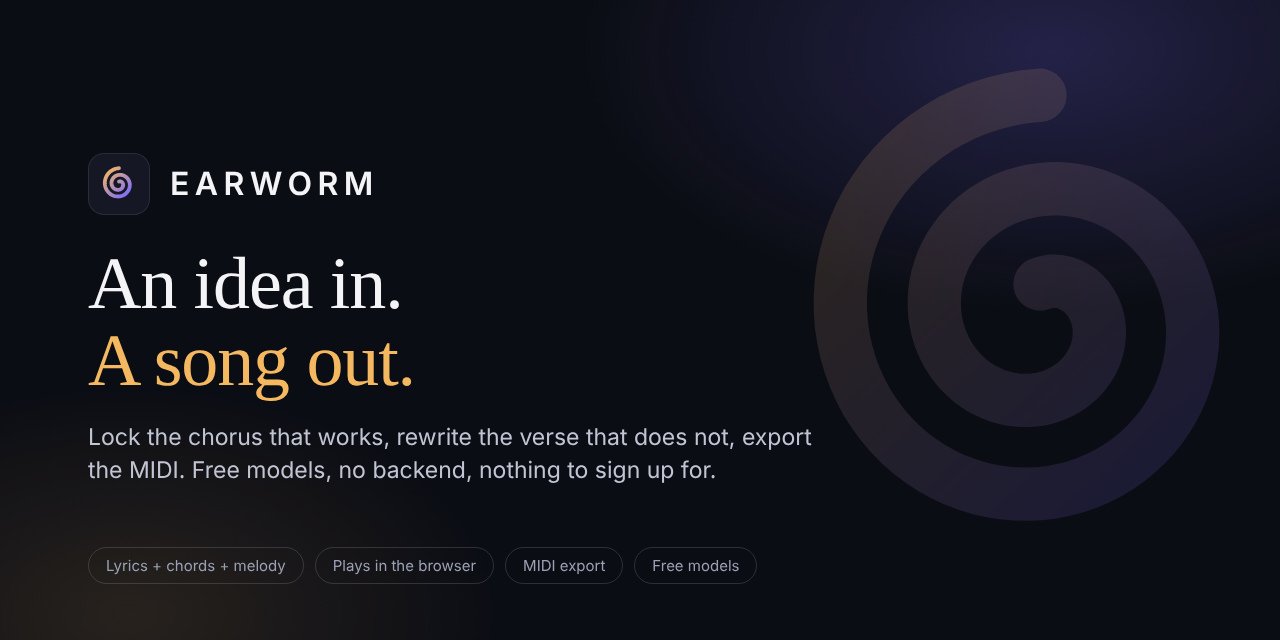
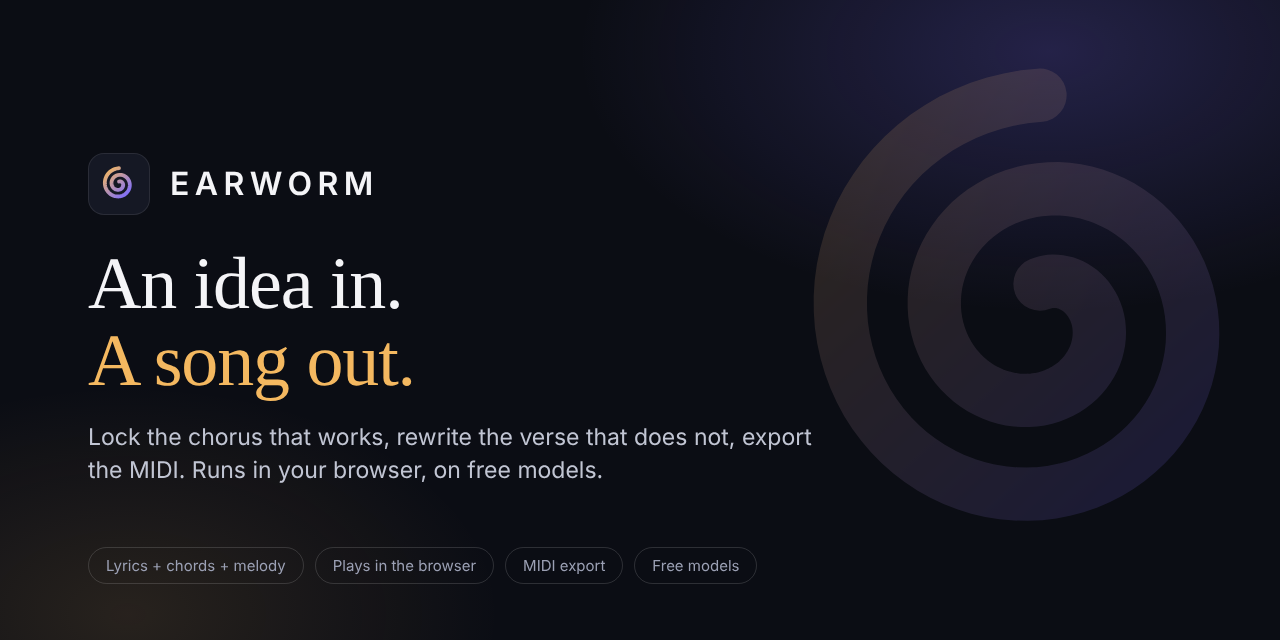
Drop "nothing to sign up for" from the social card and page description
Generating needs an API key, which means signing up with a provider, even
when the models are free. The card and meta description now say what is
true: it runs in the browser, on free models.

Claude-Session: https://claude.ai/code/session_017DSidBGg1ikjPKqNVgHao9

Changed region(s): [[0.1562, 0.7188, 0.5625, 0.75]]

diff --git a/index.html b/index.html
@@ -27,7 +27,7 @@
     <meta property="og:title" content="Earworm — an idea in, a song out" />
     <meta
       property="og:description"
-      content="Lyrics, chords, melody and a band to play it. Free models, no backend, nothing to sign up for."
+      content="Lyrics, chords, melody and a band to play it. Runs in your browser, on free models."
     />
     <meta property="og:url" content="https://galvinlam.github.io/earworm/" />
     <meta property="og:image" content="https://galvinlam.github.io/earworm/og-image.png" />
